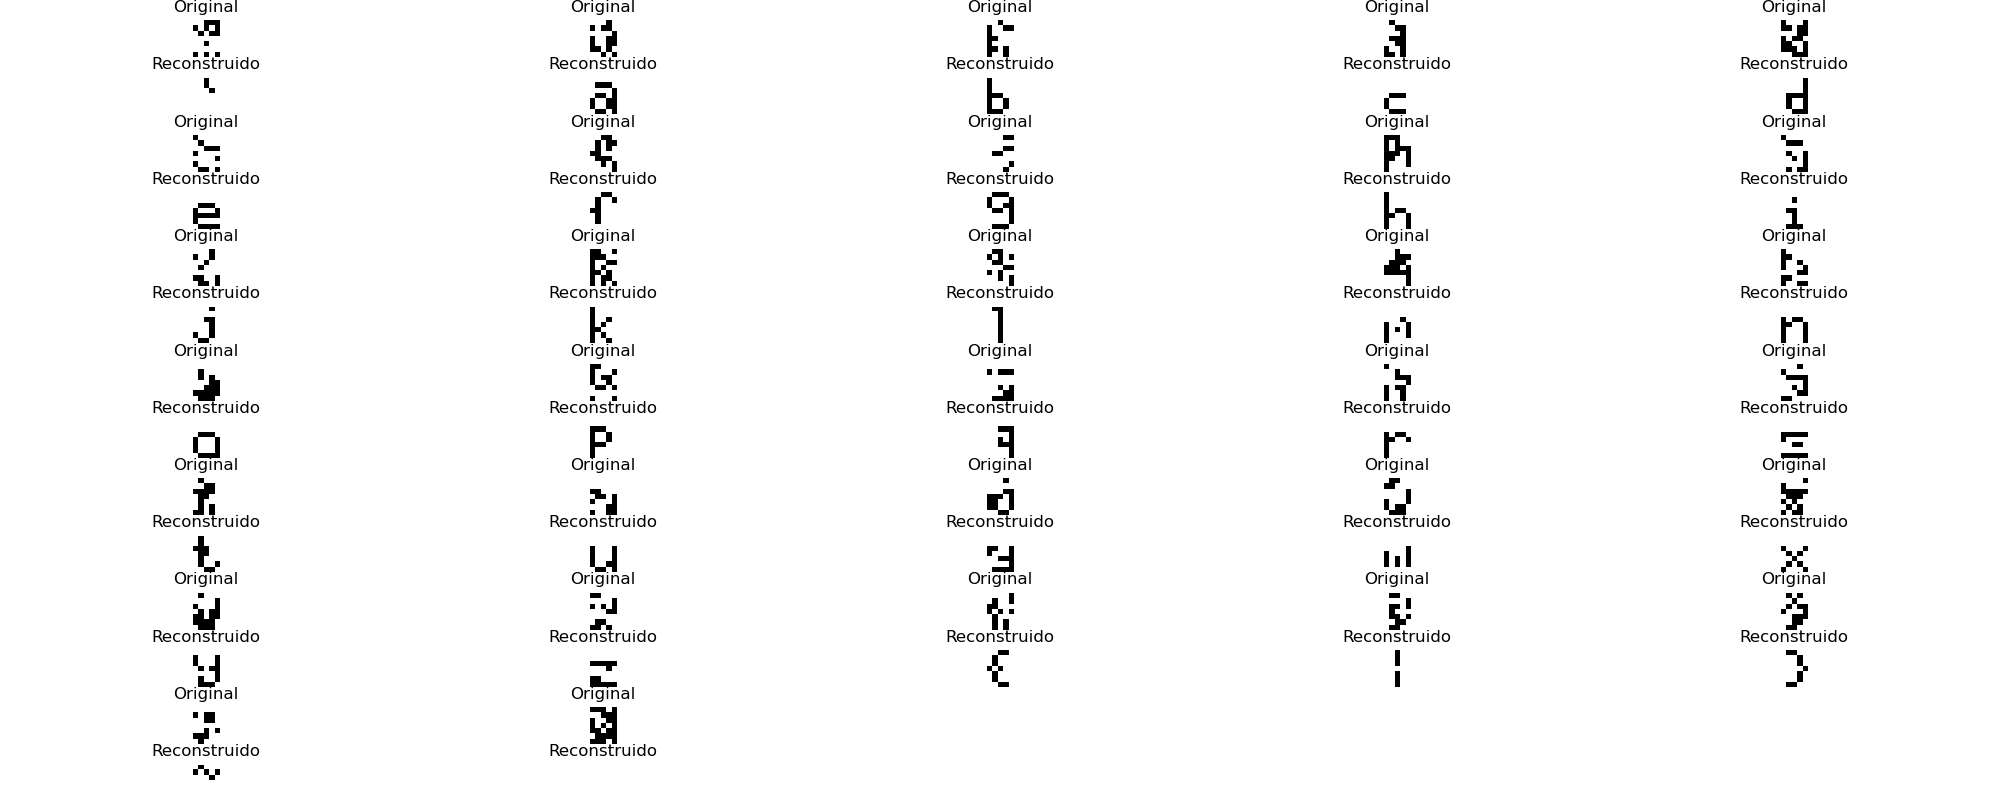
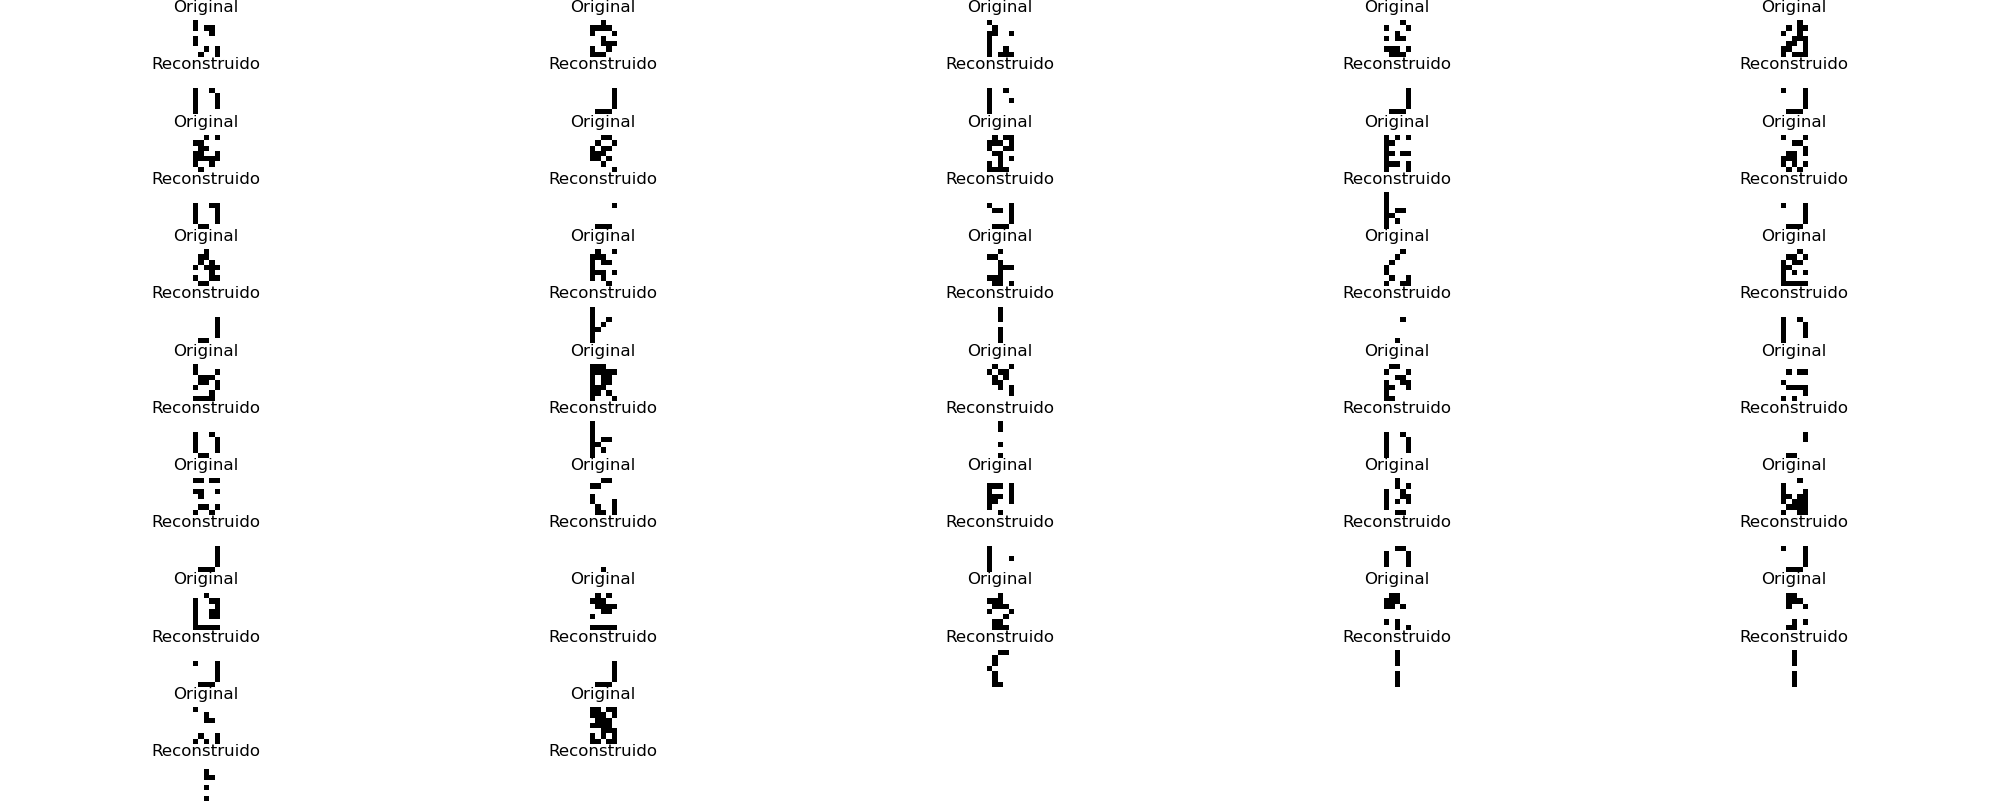
repair denoising ae

diff --git a/tp5/autoencoder_denoising.py b/tp5/autoencoder_denoising.py
@@ -1,5 +1,5 @@
 from dataset.font3 import Font3
-from src.tools import to_bin_array, view_all_characters, import_json, interpolate_latent_points
+from src.tools import to_bin_array, view_all_characters, import_json, interpolate_latent_points, generate_noise
 import numpy as np
 import matplotlib.pyplot as plt
 
@@ -27,15 +27,15 @@ epochs = data["epochs"]
 batch_size = data["batch_size"]
 learning_rate = data["learning_rate"]
 seed= data["seed"]
-np.random.seed(seed)
+#np.random.seed(seed)
 
-noised_data= np.load(f'./dataset/{data["dataset"]}.npy')
+#noised_data= np.load(f'./dataset/{data["dataset"]}.npy')
 flattened_data= np.load('./dataset/font3.npy')
 
 # if data["dataset"]=="Font3":
 #     flattened_data = np.array([to_bin_array(char).flatten() for char in Font3])
 
-autoencoder = Autoencoder(learning_rate=learning_rate)
+autoencoder = Autoencoder(input_size=35, hidden_size=35, latent_size=2, learning_rate=learning_rate)
 
 # Almacenar los valores de BCE y MSE
 bce_history = []
@@ -63,8 +63,13 @@ for epoch in range(epochs):
     #     autoencoder.backward(X_batch, reconstructed_output)
     
     #reconstructed_output = autoencoder.forward(flattened_data)
-    
+    noised_data= generate_noise(flattened_data , data["k"] )
+    #print(noised_data[0])
+    #print(flattened_data[0])
+    # dif = np.sum(np.abs(flattened_data - noised_data))
+    # print(dif/len(noised_data))
     reconstructed_output = autoencoder.forward(noised_data)
+   
     bce_loss = binary_cross_entropy(flattened_data, reconstructed_output)
     mse_loss = mean_squared_error(flattened_data, reconstructed_output)
     autoencoder.backward(flattened_data, reconstructed_output)

diff --git a/tp5/src/tools.py b/tp5/src/tools.py
@@ -56,12 +56,13 @@ def view_all_characters(fonts):
 def noise_with_k(data, n , noise_k): 
     indexes = np.random.choice(np.arange(n), noise_k, False)
     #print(indexes)
+    new_data= np.copy(data)
     for index in indexes:
-        if data[index]==0:
-            data[index]=1
+        if new_data[index]==0:
+            new_data[index]=1
         else:
-            data[index]=0
-    return data
+            new_data[index]=0
+    return new_data
 
 # Definir una función para interpolar entre dos puntos en el espacio latente
 def interpolate_latent_points(point1, point2, num_steps=10):
@@ -194,3 +195,8 @@ def graficar_region_latente_auto(autoencoder, n=15, digit_size=28, puntos_latent
     plt.show()
 
 
+def generate_noise(flattened_data, k):
+    flattened_data_noise= np.empty_like(flattened_data)
+    for i in range(len(flattened_data)):
+        flattened_data_noise[i]= noise_with_k(flattened_data[i], 35, int(k))
+    return flattened_data_noise
